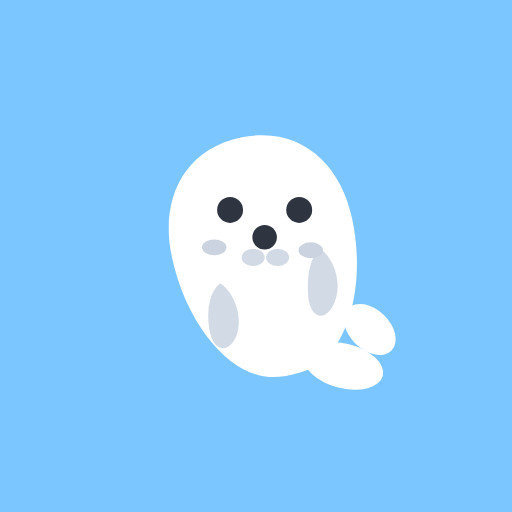
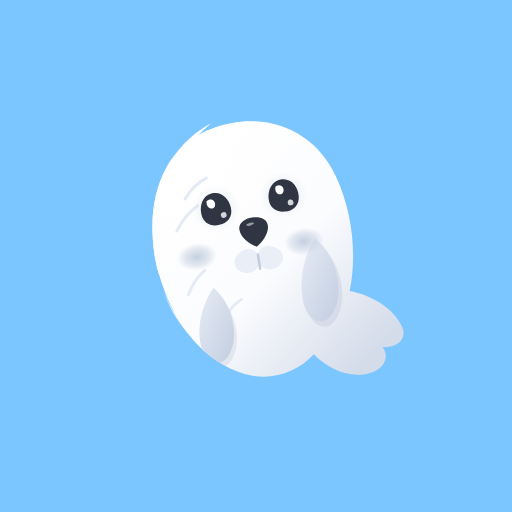
feat(pwa): 아이콘을 도형 조합에서 일러스트로 다시 그린다
전 판은 원·타원을 겹쳐 만든 것이라 그림이 아니라 조립한 도형으로 읽혔다.
몸과 꼬리를 베지어 윤곽선 하나로 다시 떴고, 좌우 곡률을 일부러 다르게 둬
손으로 그린 선처럼 보이게 했다.

부피는 평면 회색 덩어리가 아니라 그라데이션이 만든다 — 빛은 왼쪽 위, 그늘은
오른쪽 아래. 눈에는 하이라이트 둘과 옅은 눈두덩 음영을, 지느러미에는 밑동
그림자를 넣어 몸에서 살짝 떠 보이게 했다. 볼터치도 경계가 지지 않게 방사형
그라데이션으로 바꿨다. 그라데이션은 objectBoundingBox 기준이라 maskable 의
축소에도 그대로 따라간다.

털결은 두 번 고쳤다. 처음에는 윤곽 밖으로 솟게 그렸더니 뿔이 됐고, 초승달로
눕히니 털로 읽혔다. 몸 안쪽 결 가닥은 아래쪽에 두면 입이나 수염으로 읽혀서
왼쪽 면에만 남겼다.

프리캐시 총량은 1.16 -> 1.25 MB (R10 상한 2.5 MB).

Changed region(s): [[0.2812, 0.2188, 0.8125, 0.7812], [0.6562, 0.375, 0.6875, 0.4375]]

diff --git a/docs/specs/pwa.md b/docs/specs/pwa.md
@@ -22,7 +22,8 @@
 
 - R1. Lighthouse "Installable" 통과: `manifest`(name "Tasky", short_name "Tasky", `display: standalone`, `start_url: /`, `theme_color: #7CC6FF`, `background_color: #FAFAFC`, 아이콘 192/512 + maskable 512), HTTPS, 서비스워커.
 - R1-a. iOS 홈 화면 아이콘: `index.html` 이 `<link rel="apple-touch-icon" href="/icon-apple-touch-180.png">` 를 낸다. iOS 는 manifest 의 아이콘보다 이 링크를 먼저 보고, 없으면 **페이지 스크린샷**을 아이콘으로 쓴다. 파일을 따로 두는 이유는 크기가 아니라 **알파**다 — iOS 는 이 아이콘의 투명 픽셀을 검정으로 합성하므로 모서리가 투명한 192/512 를 가리키면 둥근 모서리 자리에 검은 삼각형이 남는다. 그래서 180×180 **불투명**(배경색 위에 합성) 사본이어야 하고, `scripts/check-dist.mjs` 가 매 빌드 크기·알파·문서 링크·프리캐시 포함을 확인한다.
-- R2. 아이콘은 Tasky 고유: 둥근 사각 배경 `#7CC6FF` + **하프물범 새끼 마스코트**. 캐릭터는 무채색만 쓴다(흰 몸 · 회색 지느러미·볼터치 · 검은 점). 얼굴은 같은 크기의 점 셋(눈 둘 + 코)이 전부고 입선·수염은 없다. 몸은 살짝 기울여 머리가 왼쪽 위·꼬리가 오른쪽 아래로 가지만 **얼굴은 기울이지 않는다** — 납작한 아이콘에서 눈높이가 어긋나면 삐뚤어져 보인다. 레퍼런스 앱의 마스코트·구름 형태를 쓰지 않는다. 네 파일(192·512·maskable 512·apple-touch 180)은 전부 `scripts/make-icons.mjs` 하나가 만든다 — 손으로 고친 PNG를 섞지 않는다.
+- R2. 아이콘은 Tasky 고유: 둥근 사각 배경 `#7CC6FF` + **하프물범 새끼 일러스트**. 캐릭터는 무채색만 쓴다(흰 몸 · 회색 음영·지느러미·볼터치 · 검은 눈코). 몸은 살짝 기울여 머리가 왼쪽 위·꼬리가 오른쪽 아래로 간다. 얼굴은 큰 눈 둘 + 코이고 입선·수염은 없다. 레퍼런스 앱의 마스코트·구름 형태를 쓰지 않는다.
+- R2-a. **도형을 겹쳐 만들지 않는다.** 몸과 꼬리는 베지어 윤곽선 **하나**이고, 부피는 그라데이션(빛 왼쪽 위 · 그늘 오른쪽 아래)이, 질감은 윤곽을 따라 눕는 털결 몇 가닥이 만든다. 원·타원을 겹쳐 놓으면 그림이 아니라 조립한 도형으로 읽힌다. 털을 윤곽 **밖으로** 솟게 그리면 뿔이 되므로 초승달로 눕힌다. 네 파일(192·512·maskable 512·apple-touch 180)은 전부 `scripts/make-icons.mjs` 하나가 만든다 — 손으로 고친 PNG를 섞지 않는다.
 - R3. 오프라인: 앱 셸(HTML·JS·CSS·폰트·아이콘)을 설치 시 프리캐시. 네트워크 없이 새로고침해도 홈이 뜨고 모든 스펙 기능이 동작한다. 데이터 요청이 없으므로 런타임 캐시 규칙은 없음.
 - R4. 업데이트: 새 서비스워커가 `waiting`이 되면 토스트 표시. `[새로고침]` → `skipWaiting` + 리로드. 무시하면 다음 방문 시 자동 적용. 사용자 입력 중(편집 패널 열림)에는 토스트를 미룬다.
 - R5. 서비스워커는 프로덕션 빌드에서만 등록한다. 개발 모드에서는 등록하지 않는다.
